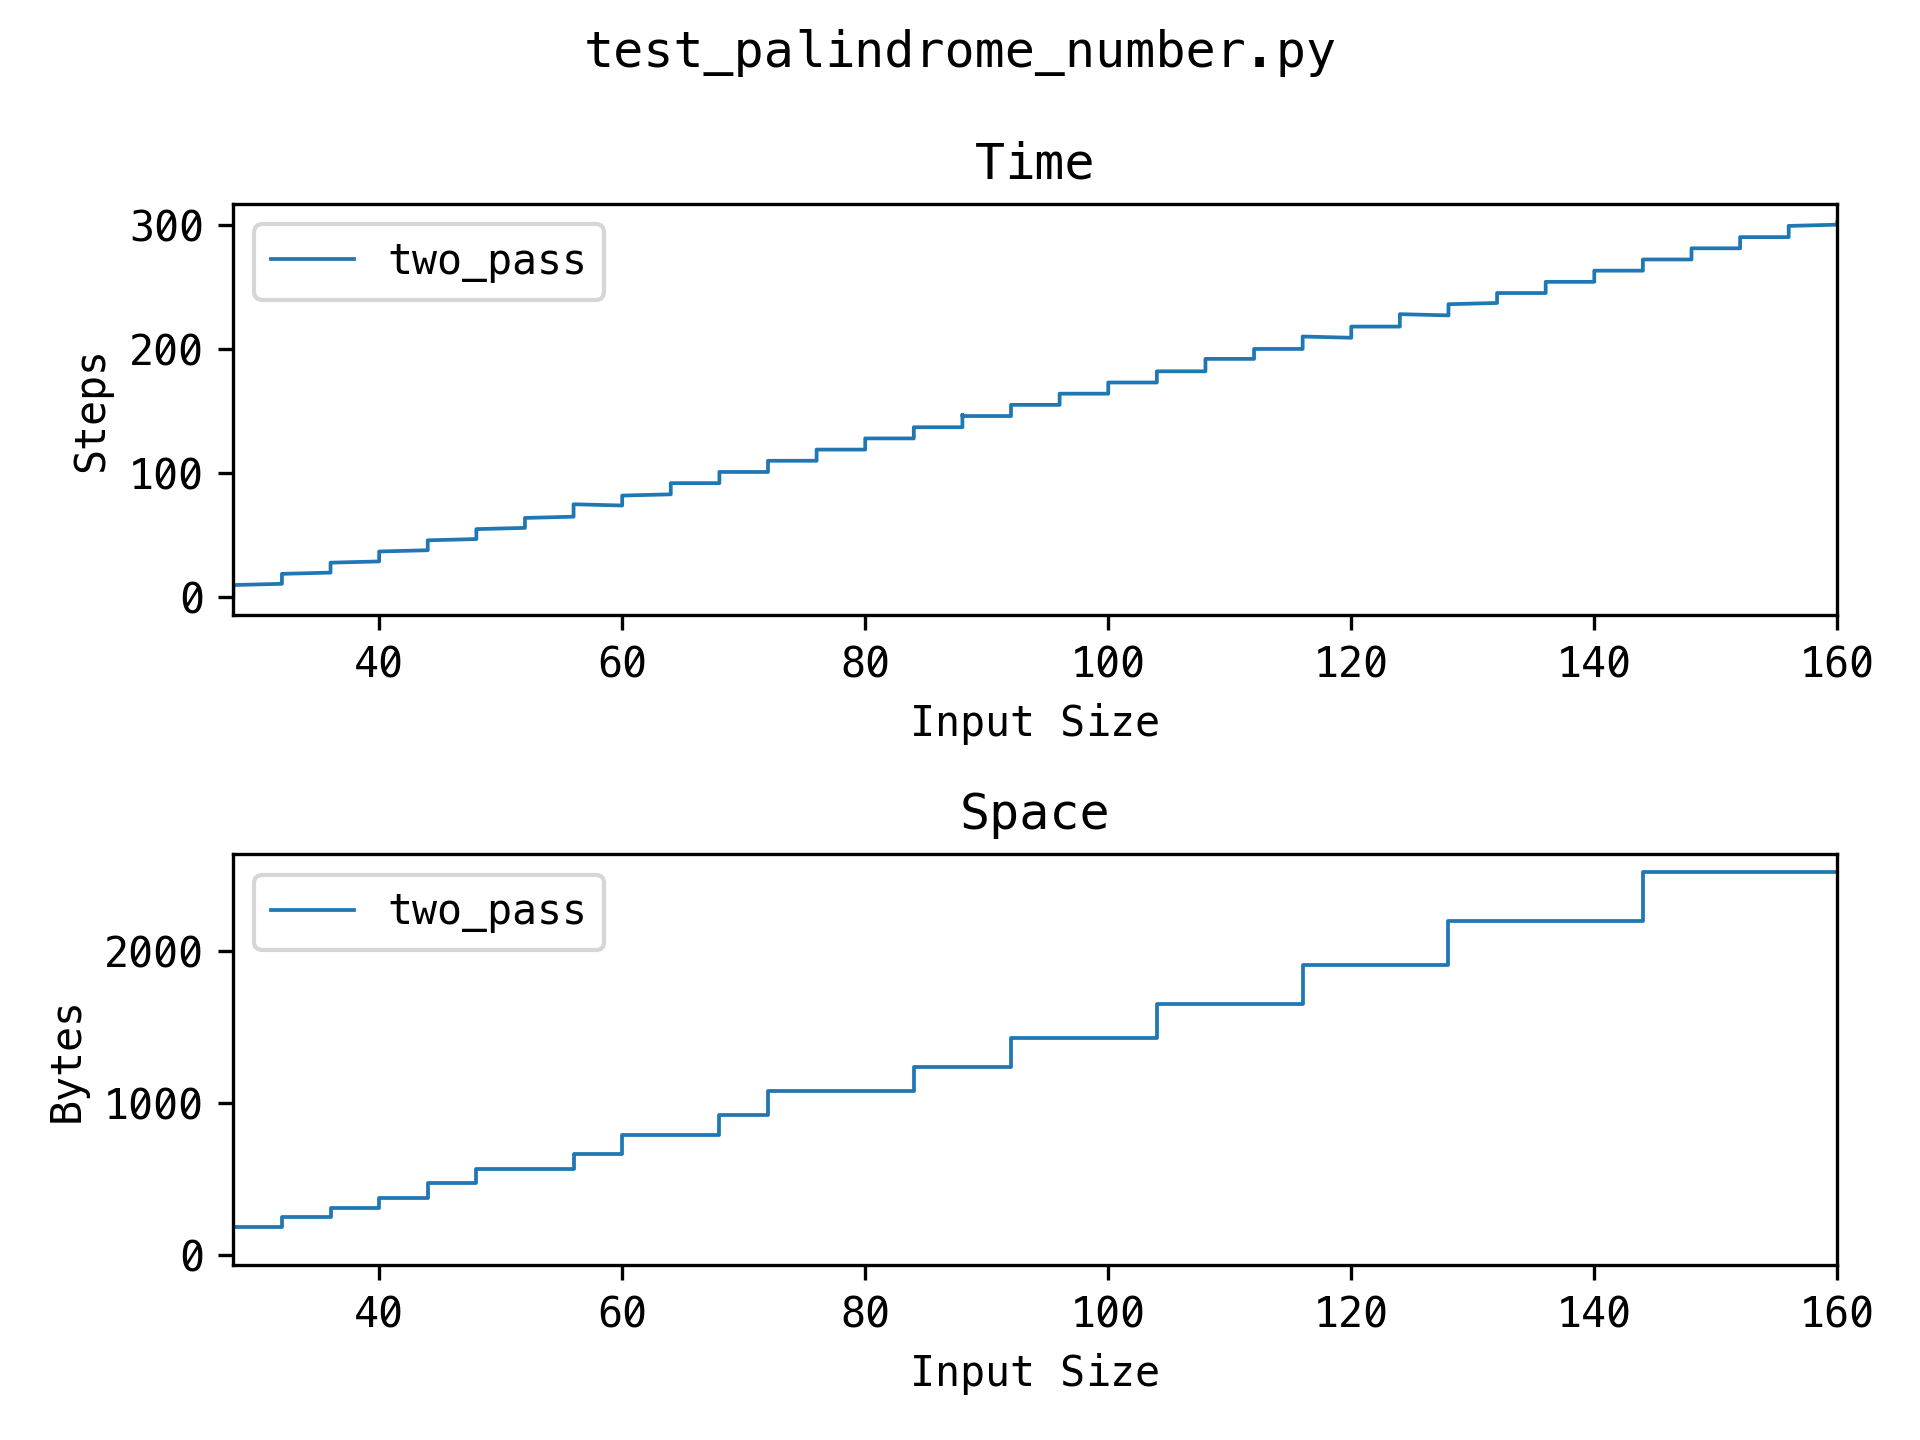
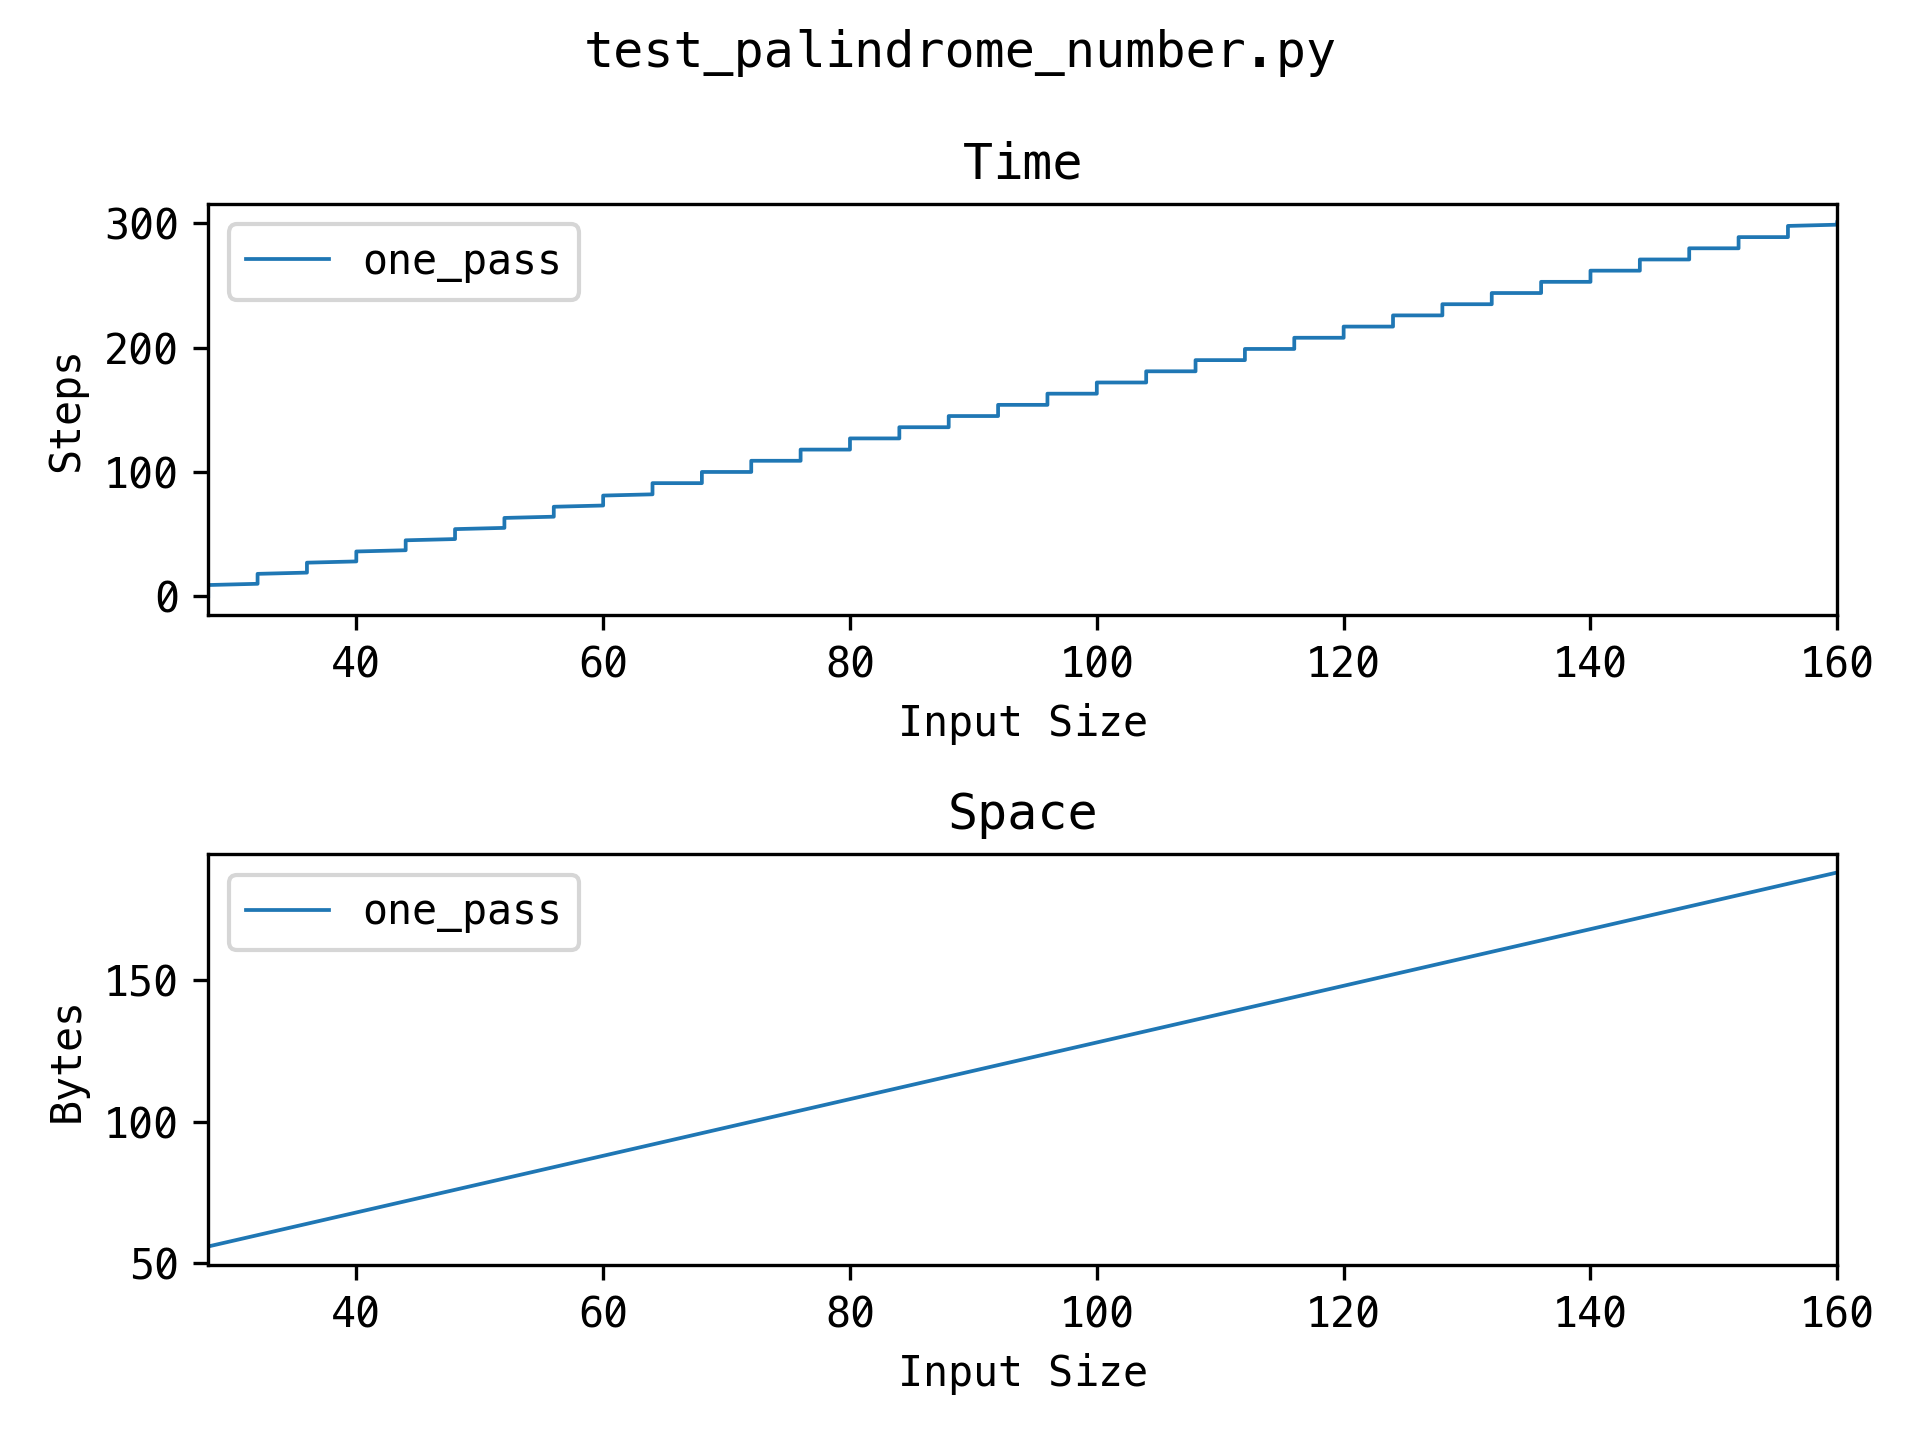
Add palindrome number

diff --git a/src/problems/test_palindrome_number.py b/src/problems/test_palindrome_number.py
@@ -4,35 +4,17 @@ import utils
 
 
 class Solution(utils.Solution):
-    def two_pass(self, x: int) -> bool:
-        digits = []
-        self.complexity.space(digits)
+    def one_pass(self, x: int) -> bool:
+        r = 0
+        n = x
+        self.complexity.space(r, n)
 
-        if x < 0:
+        while n > 0:
             self.complexity.step()
-            return False
+            r = r * 10 + (n % 10)
+            n //= 10
 
-        if x < 10:
-            self.complexity.step()
-            return True
-
-        while x > 0:
-            self.complexity.step()
-            digits.append(x % 10)
-            x = x // 10
-
-        i = 0
-        j = len(digits) - 1
-        while i != j:
-            self.complexity.step()
-            n = digits[i]
-            m = digits[j]
-            if n != m:
-                return False
-            i += 1
-            j -= 1
-
-        return True
+        return x == r
 
 
 def test_solutions():

diff --git a/src/problems/utils.py b/src/problems/utils.py
@@ -27,7 +27,8 @@ class Complexity:
         self.solution = solution
         self.solution_path = Path(inspect.getfile(solution.__class__))
         self.history = []
-        self.reset()
+        self._steps = 0
+        self._objects = []
 
     def step(self):
         self._steps += 1
@@ -35,15 +36,18 @@ class Complexity:
     def get_steps(self):
         return self._steps
 
-    def space(self, object):
-        self._memory = object
+    def space(self, *objects):
+        self._objects = objects
 
     def get_space(self):
-        return sys.getsizeof(self._memory)
+        total = 0
+        for o in self._objects:
+            total += sys.getsizeof(o)
+        return total
 
     def reset(self):
         self._steps = 0
-        self._memory = None
+        self._objects = []
 
     def record(self, name, n):
         self.history += [
